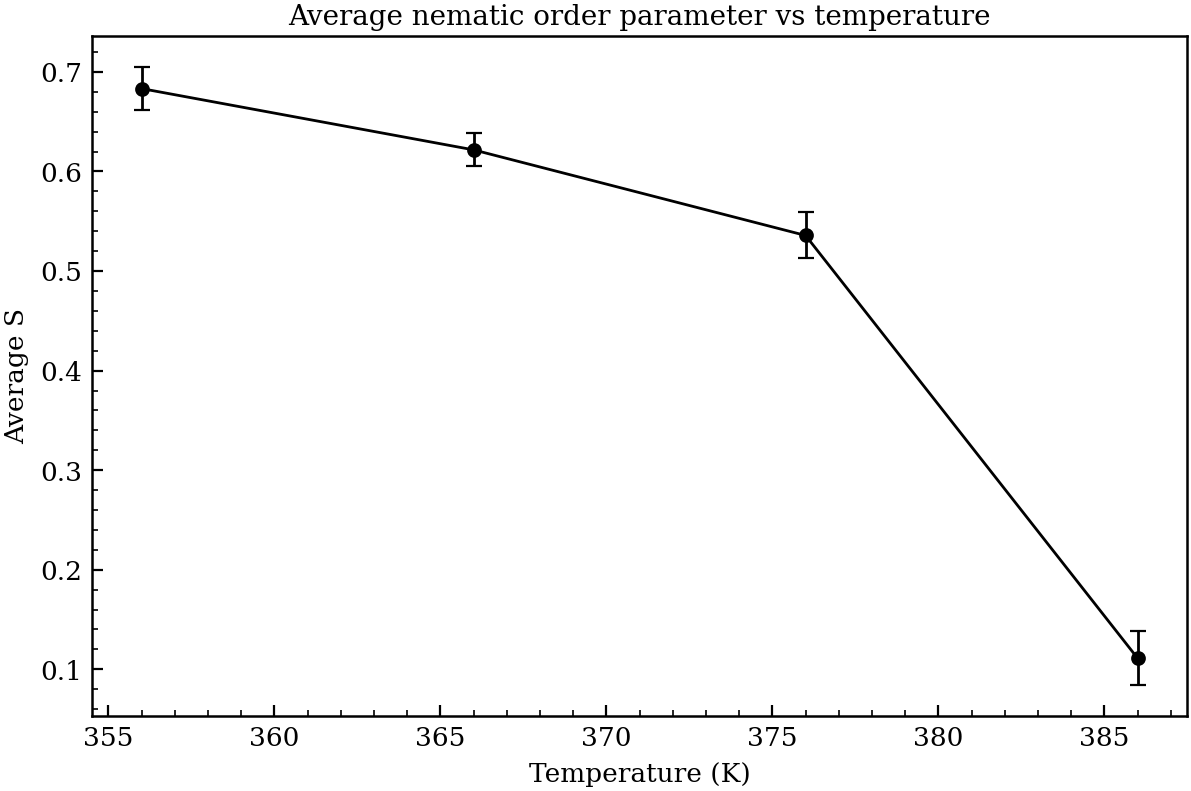
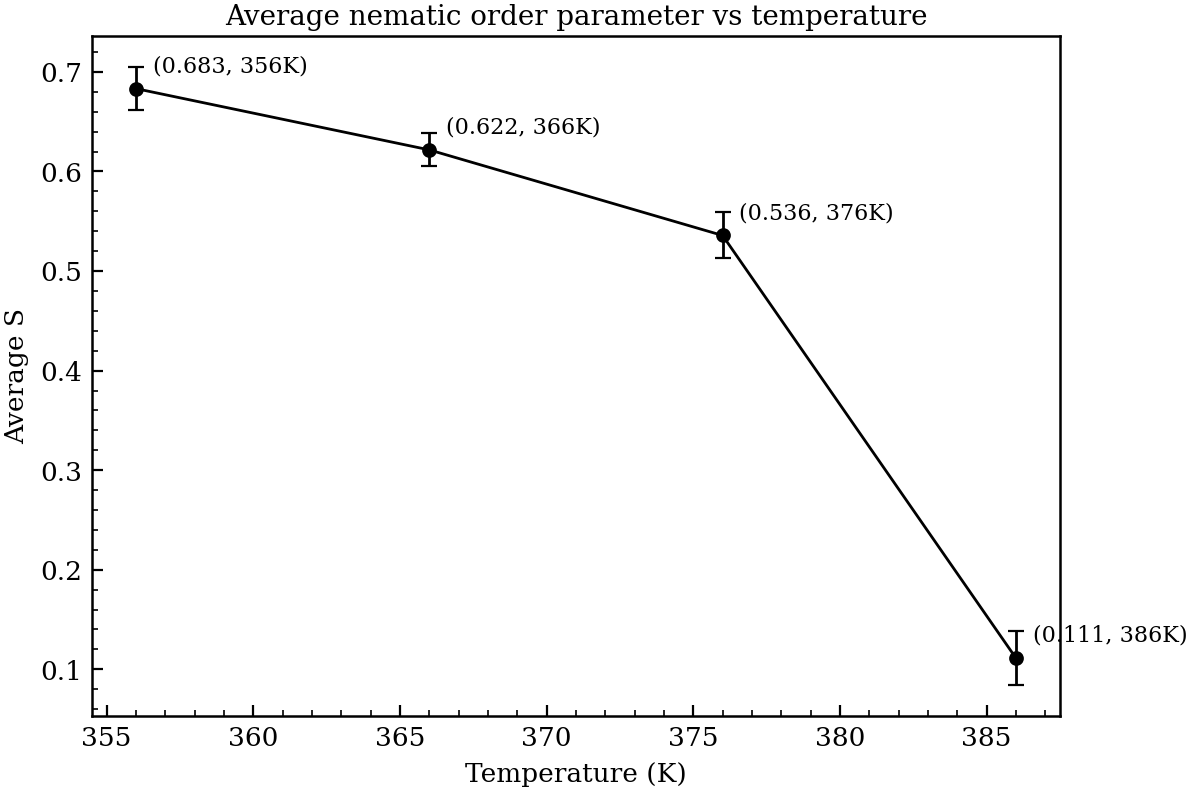
diplay pairs of values in av s vs temp plot

diff --git a/plotting/plot_ps.py b/plotting/plot_ps.py
@@ -63,6 +63,15 @@ def plot_avg_s_vs_temperature(
     ax.set_ylabel("Average S")
     ax.set_title("Average nematic order parameter vs temperature")
 
+    for t, m in zip(temps, means):
+        ax.annotate(
+            f"({m:.3f}, {t:.0f}K)",
+            xy=(t, m),
+            xytext=(6, 6),
+            textcoords="offset points",
+            fontsize=8,
+        )
+
     out_path.parent.mkdir(parents=True, exist_ok=True)
     fig.savefig(out_path, dpi=200)
     print(f"Wrote {out_path}")
